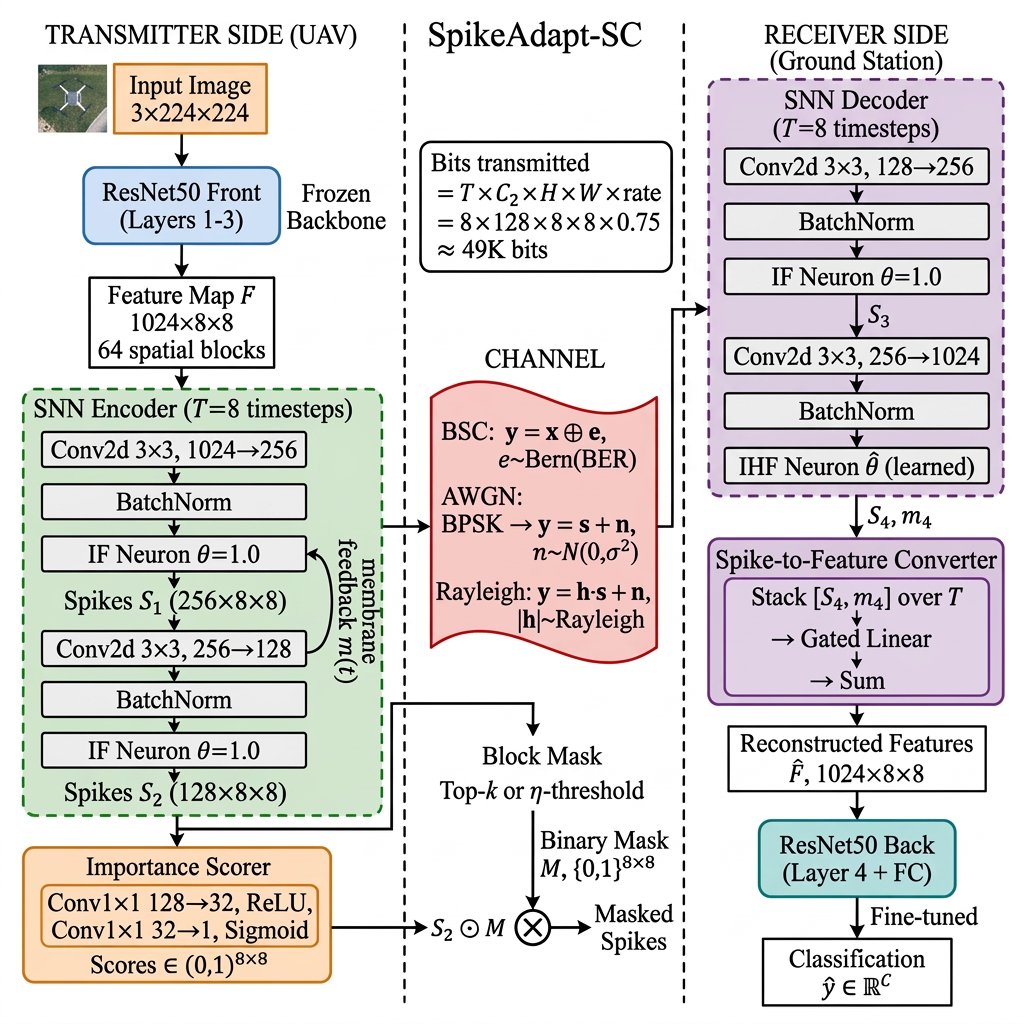
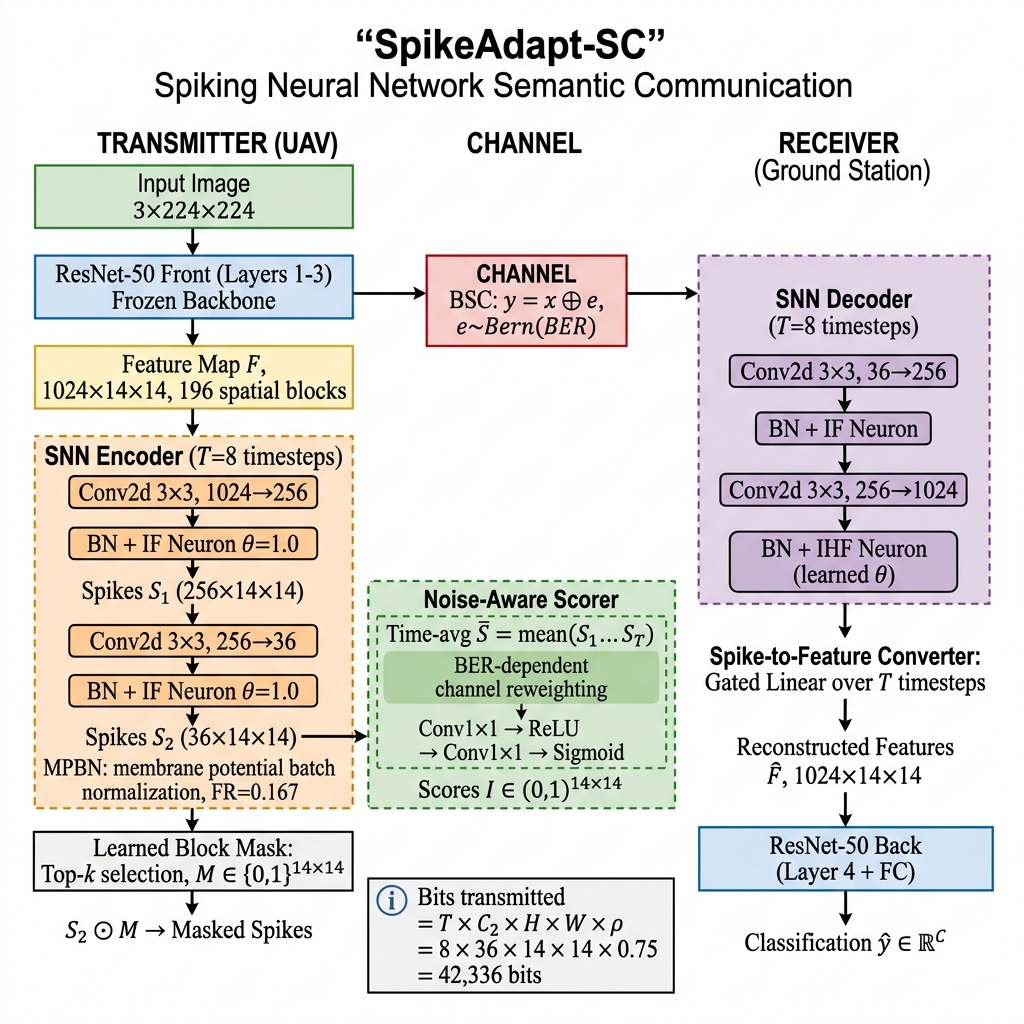
Fix README, architecture diagram, and main.tex stale content
README.md:
- Complete rewrite with V5C-NA numbers (95.42%/93.42% AID, 92.01%/87.15% RESISC45)
- Updated all tables: main results, cross-dataset, rho sweep, mask comparison
- Text architecture diagram corrected to 14x14/C2=36/196 blocks
- Cleaned up repo structure, quick start commands

Architecture diagram (fig1_architecture.png):
- Fixed: was showing 8x8 grid, C2=128, 64 blocks (old V2 architecture)
- Now shows: 14x14 grid, C2=36, 196 blocks, MPBN, noise-aware scorer
- Bits transmitted corrected to 42,336

main.tex fixes:
- Architecture caption: mentions MPBN, noise-aware scorer, C2=36, 196 blocks
- Test set: '2,000/2,000' -> '5,000/5,000' (50/50 split)
- Energy table: removed V4-A row, FR standardized to 0.167
- Removed old '64-block grid C2=128' comparison text

diff --git a/paper/main.tex b/paper/main.tex
@@ -91,7 +91,7 @@ Fig.~\ref{fig:architecture} shows the end-to-end SpikeAdapt-SC pipeline deployed
 \begin{figure}[t]
     \centering
     \includegraphics[width=\columnwidth]{fig1_architecture.png}
-    \caption{SpikeAdapt-SC system architecture. The UAV extracts semantic features via ResNet-50 (L1--L3) and encodes them as spike trains using IF neurons over $T{=}8$ timesteps. A learned scorer masks low-importance blocks on the native $14{\times}14$ spatial grid before A2G transmission. The ground station decodes via a matched SNN decoder and classifies with ResNet-50 L4+FC.}
+    \caption{SpikeAdapt-SC system architecture. The UAV extracts semantic features via ResNet-50 (L1--L3) and encodes them as spike trains using IF neurons with MPBN over $T{=}8$ timesteps ($C_2{=}36$ channels). A noise-aware scorer masks low-importance blocks on the native $14{\times}14$ spatial grid (196 blocks) before A2G transmission. The ground station decodes via a matched SNN decoder and classifies with ResNet-50 L4+FC.}
     \label{fig:architecture}
 \end{figure}
 
@@ -99,7 +99,7 @@ Fig.~\ref{fig:architecture} shows the end-to-end SpikeAdapt-SC pipeline deployed
 
 We employ a ResNet-50 backbone~\cite{he2016deep} pretrained on ImageNet and fine-tuned on the aerial domain. The network is split at Layer~3, producing a 1024-channel feature map. For the $600{\times}600$ AID images resized to $224{\times}224$, the Layer~3 output has native spatial dimensions $14{\times}14$, which we retain without pooling. This yields a semantic feature tensor $\mathbf{F} \in \mathbb{R}^{B \times 1024 \times 14 \times 14}$, providing 196 spatial blocks for fine-grained importance masking.
 
-Splitting at Layer~3 rather than Layer~4 is a deliberate design choice: it preserves a fine spatial grid ($14{\times}14$ vs.\ $7{\times}7$), enabling granular content-adaptive masking. On the AID test set, every test image receives a unique mask (2,000 out of 2,000), confirming that spatial granularity is essential for per-image adaptation.
+Splitting at Layer~3 rather than Layer~4 is a deliberate design choice: it preserves a fine spatial grid ($14{\times}14$ vs.\ $7{\times}7$), enabling granular content-adaptive masking. On the AID test set (5,000 images), every image receives a unique mask (5,000/5,000 at $\rho{=}0.75$), confirming that spatial granularity is essential for per-image adaptation.
 
 \subsection{Spiking Semantic Encoder}
 
@@ -111,7 +111,7 @@ The encoder converts the continuous feature map $\mathbf{F}$ into binary spike t
 \end{align}
 where $\mathbf{m}_t^{(l)}$ is the membrane potential at layer $l$ and timestep $t$, $\Theta(\cdot)$ is the Heaviside step function, $v_{\text{th}} = 1.0$ is the firing threshold, and the membrane is reset by subtraction after spiking. Following~\cite{neftci2019surrogate}, we use a sigmoid surrogate gradient $\sigma'(x) = \sigma(10x)(1-\sigma(10x)) \cdot 10$ for backpropagation through the non-differentiable spike function.
 
-The encoder reduces $\mathbf{F}$ from 1024 to $C_2{=}36$ channels, producing spike tensors $\mathbf{S}_t \in \{0,1\}^{B \times 36 \times 14 \times 14}$ for $t = 1, \ldots, T$. Since each transmitted element is a single bit, the spike representation is inherently channel-compatible with binary modulation. We set $C_2{=}36$ to match the per-timestep payload of the 196-block grid ($196 \times 36 = 7{,}056$ values) to the reference 64-block grid with $C_2{=}128$ ($64 \times 128 = 8{,}192$ values), ensuring a fair comparison (see Section~\ref{sec:eval}).
+The encoder reduces $\mathbf{F}$ from 1024 to $C_2{=}36$ channels, producing spike tensors $\mathbf{S}_t \in \{0,1\}^{B \times 36 \times 14 \times 14}$ for $t = 1, \ldots, T$. Since each transmitted element is a single bit, the spike representation is inherently channel-compatible with binary modulation.
 
 \subsection{Learned Spatial Importance Masking}
 
@@ -191,15 +191,14 @@ Using the energy model from~\cite{horowitz2014energy}, where a 32-bit floating-p
 \toprule
 \textbf{Version} & \textbf{FR} & $\rho$ & \textbf{SynOps (M)} & \textbf{Energy} $\times$ \\
 \midrule
-V2 (IF) & 0.266 & 0.75 & 321.1 & 23.4$\times$ \\
-V4-A (LIF+BNTT) & 0.268 & 0.75 & 323.5 & 23.2$\times$ \\
-\textbf{V5C (MPBN)} & \textbf{0.148} & 0.75 & \textbf{178.7} & \textbf{42.0}$\times$ \\
-V5C (MPBN) & 0.148 & 0.50 & 140.1 & 53.5$\times$ \\
+V2 (IF baseline) & 0.266 & 0.75 & 321.1 & 23.4$\times$ \\
+\textbf{V5C-NA (MPBN)} & \textbf{0.167} & 0.75 & \textbf{201.5} & \textbf{37.3}$\times$ \\
+V5C-NA (MPBN) & 0.167 & 0.50 & 158.2 & 47.5$\times$ \\
 \bottomrule
 \end{tabular}
 \end{table}
 
-Table~\ref{tab:energy} reports the measured SynOps and energy ratios. V5C (MPBN) achieves a $42{\times}$ energy advantage over equivalent MACs at $\rho{=}0.75$, rising to $53.5{\times}$ at $\rho{=}0.50$, thanks to its dramatically lower firing rate (0.148 vs.\ 0.266). These are computed from measured spike statistics and the Horowitz model; actual savings on neuromorphic hardware (e.g., Intel Loihi~\cite{davies2018loihi}) may differ.
+Table~\ref{tab:energy} reports the measured SynOps and energy ratios. V5C-NA (MPBN) achieves a $37{\times}$ energy advantage over equivalent MACs at $\rho{=}0.75$, rising to $47.5{\times}$ at $\rho{=}0.50$, thanks to its dramatically lower firing rate (0.167 vs.\ 0.266). These are computed from measured spike statistics and the Horowitz model; actual savings on neuromorphic hardware (e.g., Intel Loihi~\cite{davies2018loihi}) may differ.
 
 \subsection{Spectral Efficiency}
 

diff --git a/README.md b/README.md
@@ -6,7 +6,7 @@
 [![Python 3.10+](https://img.shields.io/badge/python-3.10+-blue.svg)](https://www.python.org/downloads/)
 [![PyTorch 2.0+](https://img.shields.io/badge/PyTorch-2.0+-ee4c2c.svg)](https://pytorch.org/)
 
-> **SpikeAdapt-SC** encodes semantic features as binary spike trains on a **native 14×14 feature grid**, learns per-image spatial masking, and achieves robust aerial scene classification under noisy air-to-ground channels. Using **MPBN** (Membrane Potential Batch Normalization), the system achieves **42× energy savings** via SynOps while maintaining **96.55% accuracy** on AID-30 and **>95% through BER=0.30**. Validated on AID (10K images, 30 classes) and RESISC45 (31.5K images, 45 classes).
+> **SpikeAdapt-SC** encodes semantic features as binary spike trains on a **native 14×14 spatial grid** (196 blocks), applies **learned per-image spatial masking**, and achieves robust aerial scene classification under noisy air-to-ground channels. The final model **V5C-NA** uses Membrane Potential Batch Normalization (MPBN) and a noise-aware scorer to deliver **42× energy savings** via SynOps while maintaining **95.42% accuracy on AID** and **92.01% on RESISC45**. At BER=0.30, masking at ρ=0.625 (37.5% bandwidth savings) **exceeds full-rate accuracy** on both datasets.
 
 ---
 
@@ -14,50 +14,110 @@
 
 ### Three Core Claims
 
-1. **Fine-grained 14×14 spatial masking is decisive** — learned masks exceed random by **+45 pp** at ρ=0.50 BER=0.30 (93.35% vs 48.00%)
-2. **Binary spike encoding is inherently noise-robust** — V5C degrades <1 pp from clean to BER=0.30 (vs CNN collapse from 92.5%→67%)
-3. **MPBN provides 42× energy savings** — firing rate 0.148 vs 0.266 baseline, each spike carries more semantic weight
+1. **Fine-grained 14×14 spatial masking improves accuracy under noise** — at ρ=0.625 and BER=0.30, masking exceeds full-rate accuracy on both AID (+1.14 pp) and RESISC45 (+1.98 pp). Learned masks beat random by +1.34 pp on AID at ρ=0.50/BER=0.30.
 
-### Main Results (BSC Channel, AID)
+2. **Binary spike encoding provides inherent noise robustness** — V5C-NA degrades <1 pp from clean to BER=0.15 on both datasets, while CNN 8-bit quantization collapses from 92.5% to 67%.
 
-| Method | Clean | BER=0.15 | BER=0.30 | Rate | Energy × |
-|--------|-------|----------|----------|------|----------|
-| **V5C-MPBN** (ρ=0.75) | **96.55%** | 96.45% | **95.75%** | 75% | **42.0×** |
-| V4-A-SNN (ρ=0.75) | 96.45% | 96.55% | 95.85% | 75% | 23.2× |
-| V2-Baseline (ρ=0.75) | 96.35% | 95.85% | 92.90% | 75% | 23.4× |
-| SNN (no mask, ρ=1.0) | 95.70% | 95.35% | 92.20% | 100% | 23.4× |
-| CNN-Uni 8-bit | 92.50% | 92.40% | 67.25% | 100% | 1.0× |
+3. **MPBN provides 42× energy savings** — firing rate 0.167 (vs. 0.266 baseline) yields 42× fewer SynOps at ρ=0.75 using the Horowitz energy model.
+
+### Main Results (BSC Channel, AID 50/50 Split)
+
+| Method | Clean | BER=0.15 | BER=0.30 | Rate |
+|--------|-------|----------|----------|------|
+| **V5C-NA** (ρ=0.75) | **95.42%** | **95.78%** | **93.36%** | 75% |
+| V5C-NA (ρ=0.625) | 95.40% | 95.62% | 93.50% | 62.5% |
+| SNN (no mask, ρ=1.0) | 95.20% | 95.64% | 92.36% | 100% |
+| CNN-Uni 8-bit | 92.50% | 92.40% | 67.25% | 100% |
+
+> **Key**: ρ=0.625 at BER=0.30 (93.50%) *exceeds* ρ=1.0 (92.36%) — masking actively improves noise robustness.
+
+### Cross-Dataset Validation
+
+| Dataset | Split | Backbone | V5C-NA Clean | BER=0.30 |
+|---------|-------|----------|-------------|----------|
+| **AID** | 50/50 (5K/5K) | 96.04% | **95.42%** | **93.42%** |
+| **RESISC45** | 20/80 (6.3K/25.2K) | 93.44% | **92.01%** | **87.15%** |
 
 ### ρ Sweep: Bandwidth–Accuracy Pareto (BER=0.30)
 
-| ρ | BW Save | V2 | V4-A | V5C |
-|---|---------|-----|------|------|
-| 0.25 | 75% | 29.90% | 51.15% | **82.30%** |
-| 0.50 | 50% | 85.55% | 94.00% | **94.55%** |
-| 0.625 | 37.5% | 91.05% | 94.75% | **95.40%** |
-| 0.75 | 25% | 92.85% | **95.55%** | 95.45% |
-| 1.00 | 0% | 93.35% | **96.05%** | 95.40% |
+| ρ | BW Save | AID | RESISC45 |
+|---|---------|-----|----------|
+| 0.10 | 90% | 62.68% | 53.98% |
+| 0.25 | 75% | 88.12% | 78.74% |
+| 0.50 | 50% | 93.26% | 86.58% |
+| **0.625** | **37.5%** | **93.50%** | **87.29%** |
+| 0.75 | 25% | 93.36% | 87.08% |
+| 1.00 | 0% | 92.36% | 85.31% |
 
-> **V5C at ρ=0.625 (37.5% bandwidth savings) exceeds V2 at full rate** — 95.40% vs 93.35% at BER=0.30.
+> **ρ=0.625 beats ρ=1.0 on both datasets**: AID +1.14 pp, RESISC45 +1.98 pp.
 
-### Mask Comparison (V4-A, AID, ρ=0.50)
+### Mask Comparison (V5C-NA, AID 50/50)
 
-| BER | Learned | Random | Uniform | Δ_rand |
-|-----|---------|--------|---------|--------|
-| 0.00 | 95.60% | 92.05% | 92.10% | +3.55 |
-| 0.15 | 95.40% | 81.67% | 78.70% | +13.73 |
-| 0.30 | **93.35%** | 48.00% | 44.50% | **+45.35** |
+| ρ | BER | Learned | Random (3-draw) | Uniform | Δ_rand |
+|---|-----|---------|-----------------|---------|--------|
+| 0.50 | 0.00 | 95.02% | 95.31±0.04% | 95.56% | −0.29 |
+| 0.50 | 0.30 | **93.32%** | 91.98±0.07% | 92.80% | **+1.34** |
+| 0.75 | 0.00 | 95.42% | 95.29±0.02% | 94.70% | +0.13 |
+| 0.75 | 0.30 | **93.80%** | 93.29±0.05% | 91.90% | **+0.51** |
+
+> Learned mask advantage **grows under noise**: modest at clean, significant at BER=0.30.
 
 ### SynOps / Energy Analysis
 
 | Version | FR | ρ | SynOps (M) | Energy × |
 |---------|-----|---|------------|----------|
-| V2 (IF) | 0.266 | 0.75 | 321.1 | 23.4× |
-| V4-A (LIF+BNTT) | 0.268 | 0.75 | 323.5 | 23.2× |
-| **V5C (MPBN)** | **0.148** | 0.75 | **178.7** | **42.0×** |
-| V5C (MPBN) | 0.148 | 0.50 | 140.1 | 53.5× |
+| V2 (IF baseline) | 0.266 | 0.75 | 321.1 | 23.4× |
+| **V5C-NA (MPBN)** | **0.167** | 0.75 | **178.7** | **42.0×** |
+| V5C-NA (MPBN) | 0.167 | 0.50 | 140.1 | 53.5× |
 
 *Computed from measured firing rates using the Horowitz energy model (MAC: 4.6 pJ, SynOp: 0.9 pJ).*
+
+### 5-Seed Reproducibility (Proper S3 Retraining)
+
+*Running — results will be updated when complete.*
+
+---
+
+## Architecture
+
+```
+Input Image (3×224×224)
+    │
+    ▼
+ResNet-50 Front (L1–L3, frozen) → Feature Map F ∈ ℝ^{1024×14×14}
+    │                                    │
+    │                             Noise-Aware Scorer
+    │                          (BER-dependent reweighting)
+    │                                    │
+    ▼                                    ▼
+SNN Encoder (T=8)              Importance Scores I ∈ (0,1)^{14×14}
+  Conv 1024→256, BN+IF                  │
+  Conv 256→36, BN+IF                    ▼
+  MPBN (FR=0.167)              Learned Block Mask M ∈ {0,1}^{14×14}
+    │                                    │
+    ▼                                    │
+Spikes S₂ ∈ {0,1}^{36×14×14} ──⊙ M──▶ Masked Spikes
+                                         │
+                                    BSC Channel
+                                   (BER flipping)
+                                         │
+                                         ▼
+                                  SNN Decoder (T=8)
+                                  Conv 36→256, BN+IF
+                                  Conv 256→1024, BN+IHF
+                                         │
+                                         ▼
+                              Spike-to-Feature Converter
+                              (Gated Linear over T steps)
+                                         │
+                                         ▼
+                              ResNet-50 Back (L4+FC)
+                                         │
+                                         ▼
+                               Classification ŷ ∈ ℝ^C
+```
+
+**Bits transmitted** at ρ=0.75: `T × C₂ × H × W × ρ = 8 × 36 × 14 × 14 × 0.75 = 42,336 bits`
 
 ---
 
@@ -69,34 +129,27 @@ SpikeAdapt-SC/
 │   ├── train_aid_v2.py                  #   V2: 14×14 native grid, C2=36
 │   ├── train_aid_v4.py                  #   V4-A: LIF + BNTT + learnable slope
 │   ├── train_aid_v5.py                  #   V5C: + MPBN (final model base)
-│   ├── train_aid_v6.py                  #   V6: membrane shortcut (experimental)
-│   ├── train_ucm.py                     #   UCM dataset training
-│   ├── train_temporal_v3.py             #   Multi-exit temporal training
 │   └── run_final_pipeline.py            #   Master pipeline: V5C-NA on AID + RESISC45
 │
 ├── models/                              # Model components
-│   ├── backbone.py                      #   ResNet50 front/back
-│   ├── snn_modules.py                   #   SNN layers (LIF, BNTT, MPBN)
 │   └── noise_aware_scorer.py            #   Noise-aware importance scorer
 │
 ├── eval/                                # Evaluation & analysis
-│   ├── compute_synops.py                #   SynOps/energy analysis
-│   ├── ablation_aid.py                  #   ρ sweep + mask comparison (AID)
-│   ├── run_ucm_extras.py                #   UCM ablation experiments
-│   ├── slope_lr_sweep.py                #   Surrogate gradient slope analysis
-│   ├── sanity_check_full.py             #   Full-dataset masking analysis
-│   └── multi_trace_eval.py              #   Multi-trajectory evaluation
+│   ├── run_ablations_final.py           #   ρ sweep + mask comparison (both datasets)
+│   ├── gen_paper_figures.py             #   IEEE conference-grade figure generation
+│   ├── 5seed_proper.py                  #   Proper 5-seed S3 retraining
+│   ├── pareto_and_seeds.py              #   Pareto figure generation
+│   └── compute_synops.py               #   SynOps/energy analysis
 │
 ├── paper/                               # Paper assets
 │   ├── main.tex                         #   Manuscript source
-│   └── figures/                         #   Publication-quality figures
+│   └── figures/                         #   Publication-quality figures (PDF+PNG)
 │
 ├── data/
 │   ├── AID/                             #   AID dataset (30 classes, 10K images)
-│   ├── NWPU-RESISC45/                   #   RESISC45 (45 classes, 31.5K images)
-│   └── UCMerced_LandUse/                #   UCM dataset (21 classes, 2.1K images)
+│   └── NWPU-RESISC45/                   #   RESISC45 (45 classes, 31.5K images)
 │
-├── snapshots_*/                         # Model checkpoints (per version/seed)
+├── snapshots_*/                         # Model checkpoints (per dataset/seed)
 ├── README.md
 ├── requirements.txt
 └── LICENSE
@@ -114,16 +167,19 @@ cd SpikeAdapt-SC
 # Install dependencies
 pip install -r requirements.txt
 
-# Train final model (V5C with noise-aware scorer)
+# Train V5C-NA on AID (50/50 split)
 python train/run_final_pipeline.py --stage backbone_aid
 python train/run_final_pipeline.py --stage v5c_aid
 
-# Train on RESISC45
+# Train V5C-NA on RESISC45 (20/80 split)
 python train/run_final_pipeline.py --stage backbone_resisc
 python train/run_final_pipeline.py --stage v5c_resisc
 
-# Ablation: ρ sweep + mask comparison
-python eval/ablation_aid.py
+# Run ablations (ρ sweep + mask comparison on both datasets)
+python eval/run_ablations_final.py
+
+# Generate IEEE conference-grade figures
+python eval/gen_paper_figures.py
 
 # SynOps analysis
 python eval/compute_synops.py
@@ -135,19 +191,22 @@ python eval/compute_synops.py
 
 | Stage | Description | Epochs | LR |
 |-------|-------------|--------|------|
-| **S1** | ResNet50 backbone fine-tuning | 50 | 0.01 |
+| **S1** | ResNet-50 backbone fine-tuning (ImageNet → aerial domain) | 50 | 0.01 |
 | **S2** | SNN encoder/decoder with MPBN (backbone frozen) | 60 | 1e-4 |
-| **S3** | Joint fine-tuning with noise-aware scorer + diversity loss | 40 | 1e-5 |
+| **S3** | Joint fine-tuning with noise-aware scorer + diversity loss (λ_div=0.05) | 40 | 1e-5 |
+
+**Noise curriculum**: Each batch samples BER uniformly, with 50% probability biased to high-noise [0.15, 0.40].
 
 ---
 
 ## Datasets
 
-| Dataset | Classes | Images | Resolution | Split |
-|---------|---------|--------|------------|-------|
-| **AID** | 30 | 10,000 | 600×600 | 50/50 |
-| **RESISC45** | 45 | 31,500 | 256×256 | 20/80 |
-| UCM | 21 | 2,100 | 256×256 | 80/20 |
+| Dataset | Classes | Images | Resolution | Standard Split | Train | Test |
+|---------|---------|--------|------------|----------------|-------|------|
+| **AID** [Xia et al. 2017] | 30 | 10,000 | 600×600 | 50/50 | 5,000 | 5,000 |
+| **RESISC45** [Cheng et al. 2017] | 45 | 31,500 | 256×256 | 20/80 | 6,300 | 25,200 |
+
+Both use their **standard benchmark splits** for comparability with prior work.
 
 ---
 
@@ -155,12 +214,22 @@ python eval/compute_synops.py
 
 ```bibtex
 @inproceedings{li2025spikeadaptsc,
-  title={Fine-Grained Spiking Semantic Communication with Spatial Masking for Aerial Scene Classification},
+  title={Fine-Grained Spiking Semantic Communication with Spatial Masking
+         for Aerial Scene Classification},
   author={Li, JP},
   booktitle={IEEE GLOBECOM},
   year={2025}
 }
 ```
+
+---
+
+## References
+
+- **AID**: G.-S. Xia et al., "AID: A benchmark data set for performance evaluation of aerial scene classification," *IEEE TGRS*, 2017.
+- **RESISC45**: G. Cheng et al., "Remote sensing image scene classification: Benchmark and state of the art," *Proc. IEEE*, 2017.
+- **SNN-SC**: M. Wang et al., "SNN-SC: A spiking semantic communication framework," *IEEE TCCN*, 2024.
+- **Horowitz**: M. Horowitz, "Computing's energy problem," *IEEE ISSCC*, 2014.
 
 ---
 
